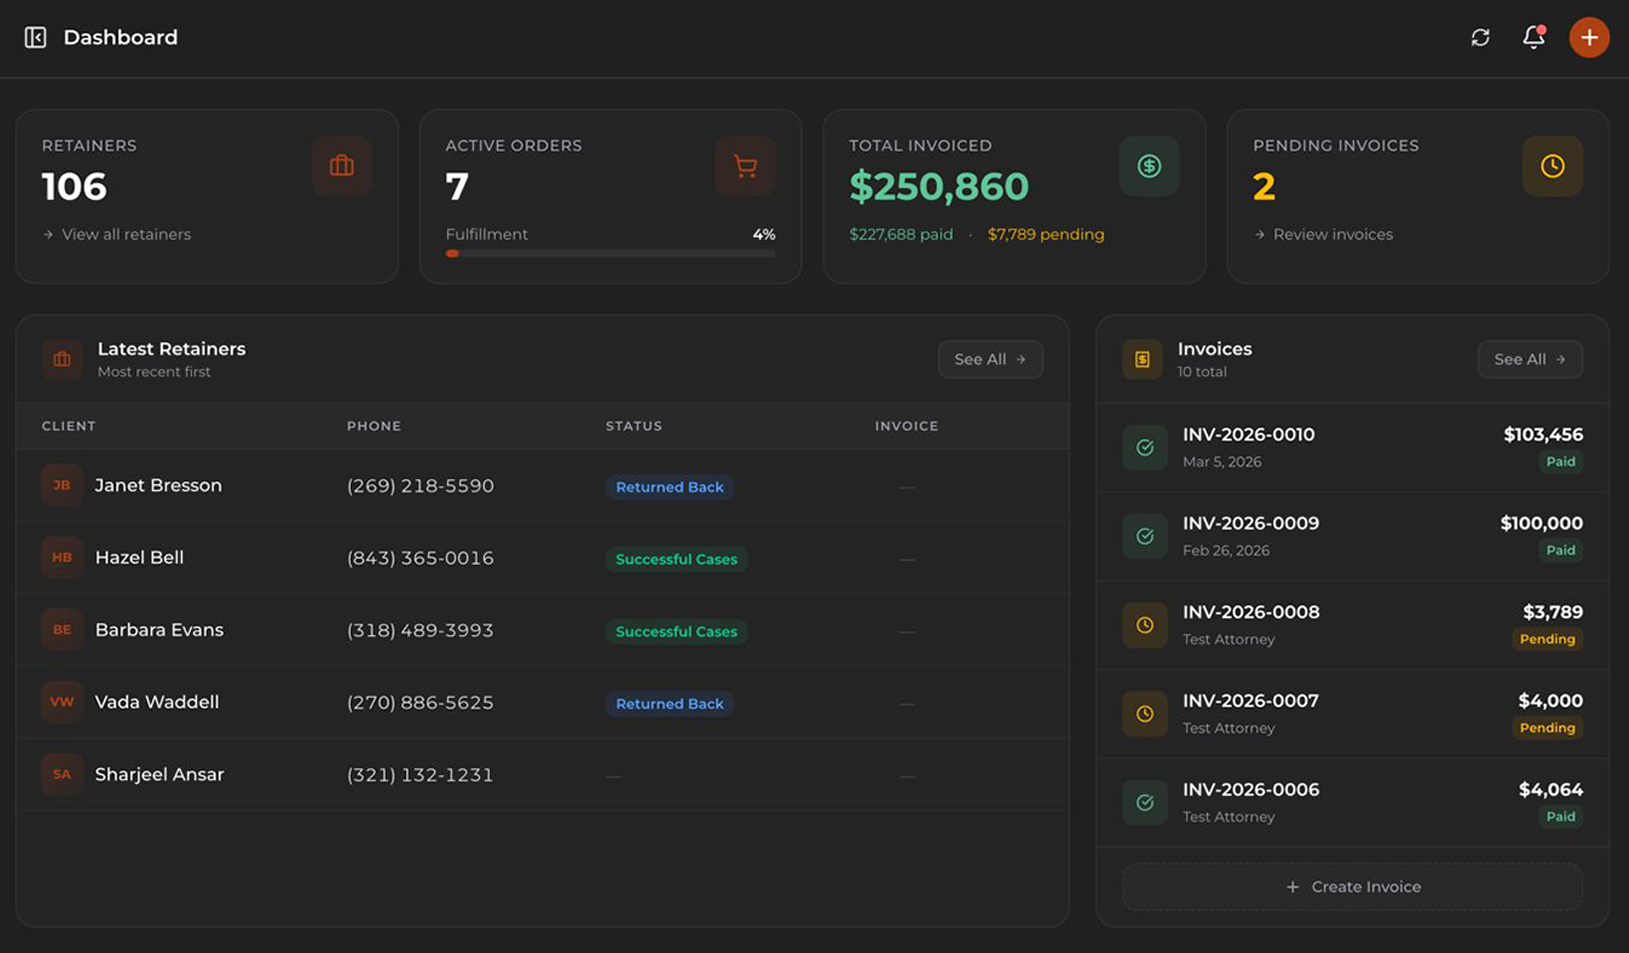
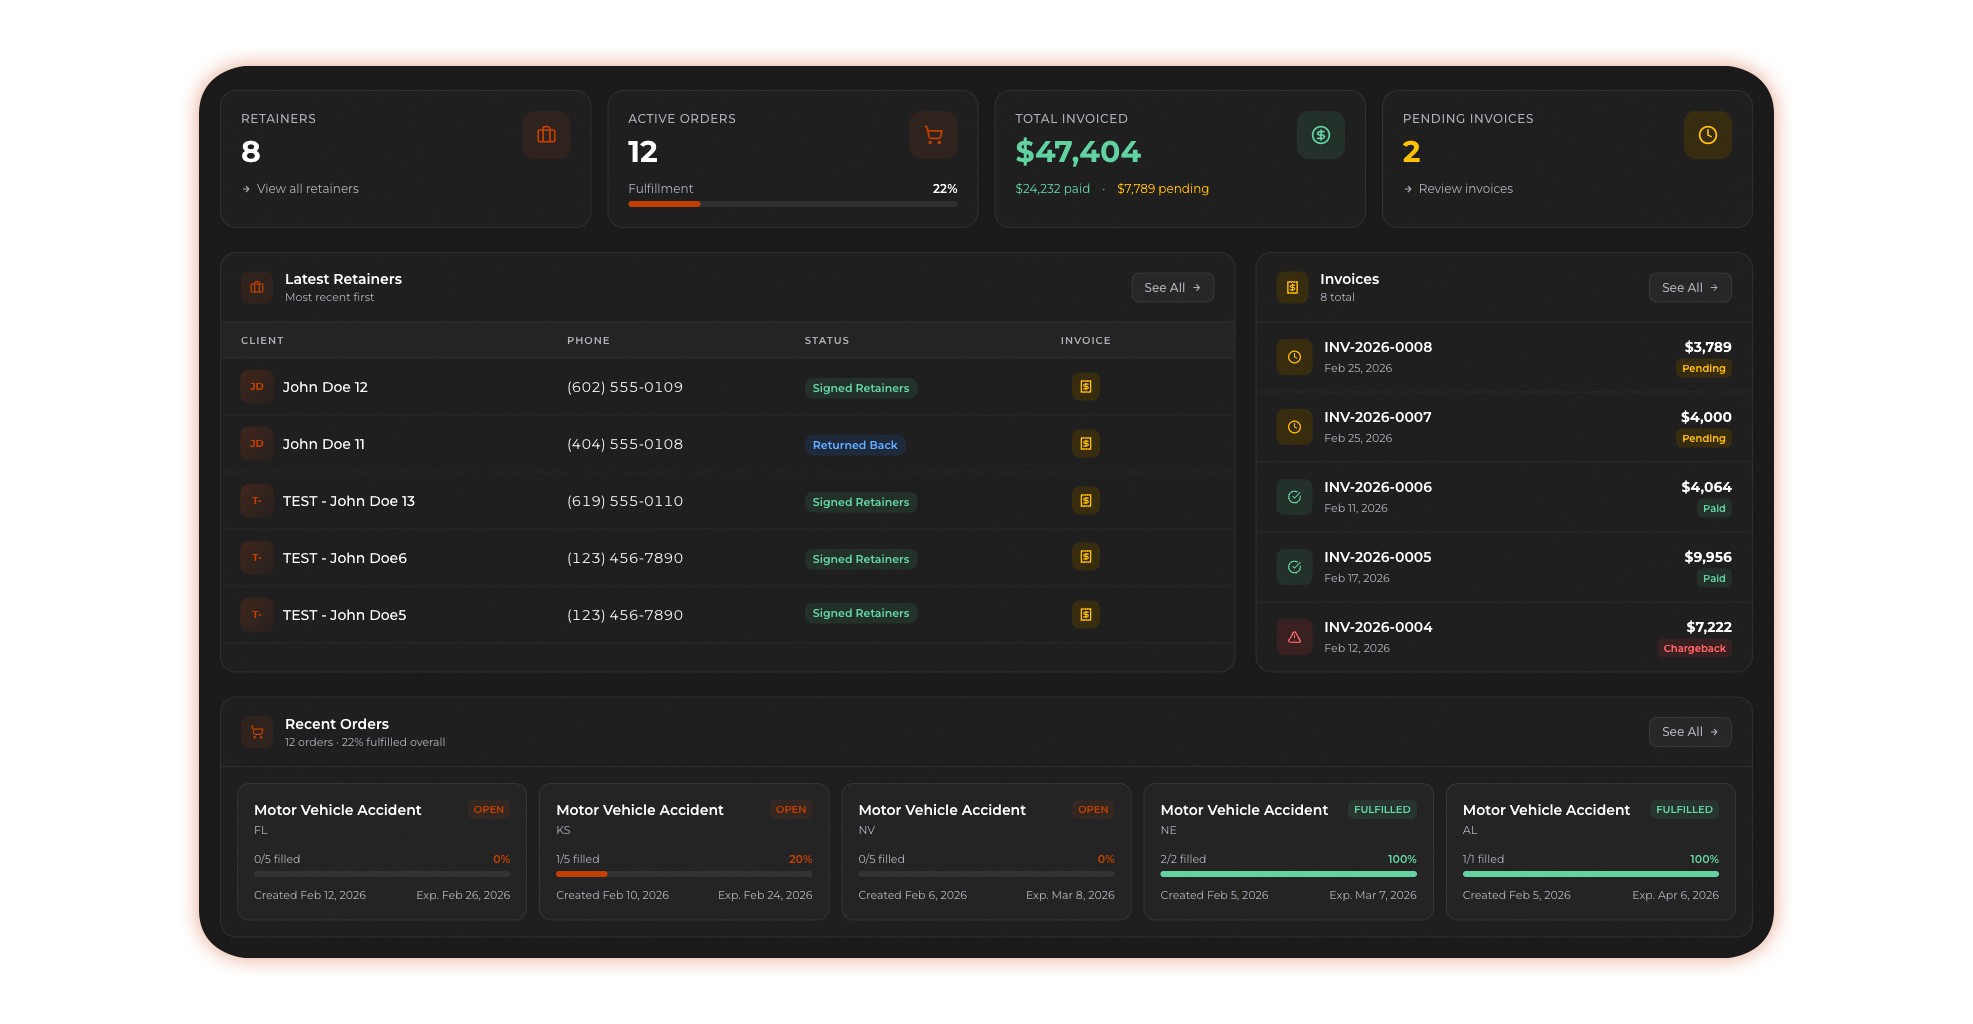
changes pushed related to the file

diff --git a/src/pages/thankyou.tsx b/src/pages/thankyou.tsx
@@ -1,6 +1,14 @@
 import Head from 'next/head';
 
 import Header from '../components/Header';
+import SectionArrow from '../components/sales/SectionArrow';
+
+const darkFrame: React.CSSProperties = {
+  '--sales-frame-surface': 'rgba(20,20,20,0.55)',
+  '--sales-frame-border': 'rgba(255,255,255,0.10)',
+  '--sales-frame-shadow': 'rgba(0,0,0,0.45)',
+  '--sales-frame-highlight': 'rgba(255,255,255,0.06)',
+} as React.CSSProperties;
 
 export default function ThankYou() {
   return (
@@ -30,11 +38,12 @@ export default function ThankYou() {
           position="fixed"
         />
 
-        <div className="h-screen overflow-y-auto snap-y snap-mandatory pt-14 sm:pt-16">
-          <section className="snap-start scroll-mt-14 sm:scroll-mt-16 min-h-[calc(100vh-56px)] flex items-center justify-center">
-            <div className="w-full">
-              <div className="w-full overflow-hidden bg-[#d9d9d9] shadow-[0_18px_50px_rgba(0,0,0,0.35)]">
-                <div className="flex h-[calc(100vh-56px-140px)] w-full items-center justify-center sm:h-[calc(100vh-64px-160px)]">
+        <div className="sales-scroll h-screen overflow-y-auto snap-y snap-mandatory scroll-smooth">
+          {/* Video slide */}
+          <section className="sales-slide snap-start flex items-center justify-center px-4 sm:px-6" style={darkFrame}>
+            <div className="w-full max-w-[1200px]">
+              <div className="w-full overflow-hidden rounded-xl bg-[#d9d9d9] shadow-[0_18px_50px_rgba(0,0,0,0.35)]">
+                <div className="aspect-video w-full">
                   <video
                     className="h-full w-full object-cover"
                     src="https://res.cloudinary.com/accidentpayments/video/upload/v1773066732/thankyou-video.mp4"
@@ -44,87 +53,57 @@ export default function ThankYou() {
                   />
                 </div>
               </div>
-              <div className="mt-4 flex justify-center">
-                <img
-                  src="/assets/Arrow.png"
-                  alt="Scroll down"
-                  className="h-24 w-auto sm:h-28"
-                />
-              </div>
             </div>
           </section>
 
-          <section className="snap-start scroll-mt-14 sm:scroll-mt-16 min-h-[calc(100vh-56px)] flex items-center justify-center px-4 py-10 sm:px-6">
-            <div className="w-full max-w-[980px]">
-              <div className="mx-auto w-full max-w-[1500px] px-6 py-12 text-center sm:px-14 sm:py-16">
-                <p className="text-xl font-extrabold uppercase tracking-[0.16em] text-brand sm:text-4xl">Step 1 : Confirm the logistics</p>
-                <p className="mt-6 text-base leading-relaxed text-[#c8c8c8] sm:text-2xl">
-                  Check your email for the Zoom link, accept the Google Calendar invite, and confirm your appointment via text message.
-                </p>
-              </div>
-              <div className="mt-10 flex justify-center">
-                <img
-                  src="/assets/Arrow.png"
-                  alt="Next step"
-                  className="h-28 w-auto sm:h-32"
-                />
-              </div>
+          {/* Step 1 */}
+          <section className="sales-slide snap-start flex items-center justify-center px-4 sm:px-6" style={darkFrame}>
+            <div className="w-full max-w-[980px] px-4 py-8 text-center sm:px-10 sm:py-10">
+              <p className="text-xl font-extrabold uppercase text-brand sm:text-4xl">Step 1 : Confirm the logistics</p>
+              <p className="mt-4 text-base leading-relaxed text-[#c8c8c8] sm:text-2xl">
+                Check your email for the Zoom link, accept the Google Calendar invite, and confirm your appointment via text message.
+              </p>
             </div>
           </section>
 
-          <section className="snap-start scroll-mt-14 sm:scroll-mt-16 min-h-[calc(100vh-56px)] flex items-center justify-center px-4 py-10 sm:px-6">
-            <div className="w-full max-w-[980px]">
-              <div className="mx-auto w-full max-w-[1500px] px-6 py-12 text-center sm:px-14 sm:py-16">
-                <p className="text-xl font-extrabold uppercase tracking-[0.16em] text-brand sm:text-4xl">Step 2 : Optimize your environment</p>
-                <p className="mt-6 text-base leading-relaxed text-[#c8c8c8] sm:text-2xl">
-                  Plan to be in a quiet, distraction-free space with your camera turned ON for the duration of the call.
-                </p>
-              </div>
-              <div className="mt-10 flex justify-center">
-                <img
-                  src="/assets/Arrow.png"
-                  alt="Next step"
-                  className="h-28 w-auto sm:h-32"
-                />
-              </div>
+          {/* Step 2 */}
+          <section className="sales-slide snap-start flex items-center justify-center px-4 sm:px-6" style={darkFrame}>
+            <div className="w-full max-w-[980px] px-4 py-8 text-center sm:px-10 sm:py-10">
+              <p className="text-xl font-extrabold uppercase text-brand sm:text-4xl">Step 2 : Optimize your environment</p>
+              <p className="mt-4 text-base leading-relaxed text-[#c8c8c8] sm:text-2xl">
+                Plan to be in a quiet, distraction-free space with your camera turned ON for the duration of the call.
+              </p>
             </div>
           </section>
 
-          <section className="snap-start scroll-mt-14 sm:scroll-mt-16 min-h-[calc(100vh-56px)] flex items-center justify-center px-4 py-10 sm:px-6">
-            <div className="w-full max-w-[980px]">
-              <div className="mx-auto w-full max-w-[1500px] px-6 py-12 text-center sm:px-14 sm:py-16">
-                <p className="text-xl font-extrabold uppercase tracking-[0.16em] text-brand sm:text-4xl">Step 3 : Prepare for value</p>
-                <p className="mt-6 text-base leading-relaxed text-[#c8c8c8] sm:text-2xl">
-                  Come ready to focus and have a notepad or app open to take notes during our strategy session.
-                </p>
-              </div>
-              <div className="mt-10 flex justify-center">
-                <img
-                  src="/assets/Arrow.png"
-                  alt="Next step"
-                  className="h-28 w-auto sm:h-32"
-                />
-              </div>
+          {/* Step 3 */}
+          <section className="sales-slide snap-start flex items-center justify-center px-4 sm:px-6" style={darkFrame}>
+            <div className="w-full max-w-[980px] px-4 py-8 text-center sm:px-10 sm:py-10">
+              <p className="text-xl font-extrabold uppercase text-brand sm:text-4xl">Step 3 : Prepare for value</p>
+              <p className="mt-4 text-base leading-relaxed text-[#c8c8c8] sm:text-2xl">
+                Come ready to focus and have a notepad or app open to take notes during our strategy session.
+              </p>
             </div>
           </section>
 
-          <section className="snap-start scroll-mt-14 sm:scroll-mt-16 min-h-[calc(100vh-56px)] flex items-center justify-center px-4 py-12 sm:px-6">
+          {/* Final / thank you */}
+          <section className="sales-slide snap-start flex items-center justify-center px-4 py-8 sm:px-6" style={darkFrame}>
             <div className="w-full max-w-[980px] text-center">
               <div className="w-full rounded-smooth border border-white/10 bg-[#202020] p-6 shadow-[0_18px_50px_rgba(0,0,0,0.35)] backdrop-blur sm:p-10">
                 <p className="text-sm leading-relaxed text-[#d4d4d4] sm:text-lg">
                   Please be prepared with any relevant information or questions so we can make the most of our time together.
                 </p>
-                <p className="mt-4 text-sm font-semibold text-brand sm:mt-5 sm:text-lg">
+                <p className="mt-3 text-sm font-semibold text-brand sm:mt-4 sm:text-lg">
                   We look forward to speaking with you and welcoming you onboard.
                 </p>
               </div>
 
-              <div className="mt-10">
+              <div className="mt-8">
                 <p className="text-2xl font-extrabold uppercase text-brand sm:text-3xl">Thank you for scheduling a meeting with us!</p>
                 <p className="mt-2 text-sm text-[#c8c8c8]">Your meeting has been successfully scheduled.</p>
               </div>
 
-              <div className="mt-12 w-full text-center">
+              <div className="mt-8 w-full text-center">
                 <p className="text-xs font-semibold text-[#c8c8c8] sm:text-sm">Follow Us On Our Socials</p>
                 <div className="mt-3 flex items-center justify-center gap-6">
                   <a href="#" className="text-brand transition-all hover:scale-110 hover:text-[#CC3F08]" aria-label="Instagram">
@@ -148,6 +127,7 @@ export default function ThankYou() {
             </div>
           </section>
         </div>
+        <SectionArrow />
       </main>
     </>
   );

diff --git a/src/components/VideoCarouselSection.tsx b/src/components/VideoCarouselSection.tsx
@@ -191,31 +191,35 @@ export default function VideoCarouselSection() {
     });
   }, []);
 
-  // Start when section comes into view AND first URL is ready
+  // Start marquee when section comes into view.
+  // Do not block on URLs: the strip should feel "alive" immediately, and
+  // videos will begin playing as soon as their URLs load.
   useEffect(() => {
     const section = sectionRef.current;
-    if (!section || hasStartedRef.current || !videoUrls[0]) return;
+    if (!section || hasStartedRef.current) return;
 
-    const tryStart = () => {
+    let observer: IntersectionObserver | null = null;
+
+    const start = () => {
       if (hasStartedRef.current) return;
-      const rect = section.getBoundingClientRect();
-      if (rect.top < window.innerHeight * 0.8 && rect.bottom > 0) {
-        hasStartedRef.current = true;
-        playAllMuted();
-        loadRemainingVideos();
-        observer.disconnect();
-      }
+      hasStartedRef.current = true;
+      playAllMuted();
+      observer?.disconnect();
+      observer = null;
     };
 
-    const observer = new IntersectionObserver(
-      ([entry]) => { if (entry.isIntersecting) tryStart(); },
-      { threshold: 0.2 }
-    );
-    observer.observe(section);
-    tryStart(); // also check immediately if already visible
+    observer = new IntersectionObserver(([entry]) => {
+      if (entry.isIntersecting) start();
+    }, { threshold: 0.15 });
 
-    return () => observer.disconnect();
-  }, [playAllMuted, loadRemainingVideos, videoUrls]);
+    observer.observe(section);
+
+    // Immediate visibility check for the common "already in view on load" case.
+    const rect = section.getBoundingClientRect();
+    if (rect.top < window.innerHeight && rect.bottom > 0) start();
+
+    return () => observer?.disconnect();
+  }, [playAllMuted]);
 
   // Auto-start newly loaded videos while marquee is running
   useEffect(() => {

diff --git a/src/components/sales/ImageSection19.tsx b/src/components/sales/ImageSection19.tsx
@@ -1,12 +1,34 @@
 export default function ImageSection19() {
   return (
-    <section className="relative snap-start sales-slide w-full overflow-hidden">
-      <img
-        src="/assets/19.png"
-        alt="Accident Payments"
-        className="absolute inset-0 h-full w-full object-cover"
-        loading="lazy"
-      />
+    <section
+      className="relative snap-start sales-slide sales-slide-no-surface flex w-full items-center justify-center px-4 py-6 sm:px-10 sm:py-10"
+      style={{ height: 'calc(100dvh - var(--sales-header))' }}
+    >
+      <div className="flex w-full max-w-[1400px] flex-col items-center text-center text-[#111]">
+        <p className="mx-auto max-w-[980px] text-[clamp(22px,5.2vw,44px)] font-extrabold uppercase leading-none tracking-[0.04em] text-brand">
+          Real-Time Revenue<br />Zero Effort
+        </p>
+        <p className="mx-auto mt-1 max-w-[980px] text-[clamp(14px,3.2vw,20px)] font-semibold leading-snug text-[#111]/80 sm:mt-2">
+          Track every signed case and firm growth in your private portal.
+        </p>
+
+        <div className="mt-3 w-full sm:mt-6">
+          {/* Desktop/tablet */}
+          <img
+            src="/assets/19.png"
+            alt="Lawyer portal preview"
+            className="hidden w-full max-w-[1320px] object-contain sm:block"
+            loading="lazy"
+          />
+          {/* Mobile */}
+          <img
+            src="/assets/dashboard-(mobile).png"
+            alt="Lawyer portal preview (mobile)"
+            className="mx-auto block h-[68vh] w-auto max-w-[92%] object-contain sm:hidden"
+            loading="lazy"
+          />
+        </div>
+      </div>
     </section>
   );
 }

diff --git a/src/components/sales/ImageSection20.tsx b/src/components/sales/ImageSection20.tsx
@@ -1,12 +1,34 @@
 export default function ImageSection20() {
   return (
-    <section className="relative snap-start sales-slide w-full overflow-hidden">
-      <img
-        src="/assets/20.png"
-        alt="Accident Payments"
-        className="absolute inset-0 h-full w-full object-cover"
-        loading="lazy"
-      />
+    <section
+      className="relative snap-start sales-slide sales-slide-no-surface flex w-full items-center justify-center px-4 py-6 sm:px-10 sm:py-10"
+      style={{ height: 'calc(100dvh - var(--sales-header))' }}
+    >
+      <div className="flex w-full max-w-[1400px] flex-col items-center text-center text-[#111]">
+        <p className="mx-auto max-w-[980px] text-[clamp(22px,5.2vw,44px)] font-extrabold uppercase leading-none tracking-[0.04em] text-brand">
+          Targeted Intake<br />100% Exclusive
+        </p>
+        <p className="mx-auto mt-1 max-w-[980px] text-[clamp(14px,3.2vw,20px)] font-semibold leading-snug text-[#111]/80 sm:mt-2">
+          Pick your states and monitor firm growth in real-time.
+        </p>
+
+        <div className="mt-3 w-full sm:mt-6">
+          {/* Desktop/tablet */}
+          <img
+            src="/assets/20.png"
+            alt="Intake map preview"
+            className="hidden w-full max-w-[1320px] object-contain sm:block"
+            loading="lazy"
+          />
+          {/* Mobile */}
+          <img
+            src="/assets/intake-(mobile).png"
+            alt="Intake map preview (mobile)"
+            className="mx-auto block h-[68vh] w-auto max-w-[92%] object-contain sm:hidden"
+            loading="lazy"
+          />
+        </div>
+      </div>
     </section>
   );
 }

diff --git a/src/styles/globals.css b/src/styles/globals.css
@@ -48,9 +48,41 @@
 
   /* Slides should be sized to the visible viewport area below the fixed header. */
   .sales-slide {
+    position: relative;
+    isolation: isolate;
     min-height: calc(100vh - var(--sales-header));
     min-height: calc(100dvh - var(--sales-header));
     scroll-margin-top: var(--sales-header);
+  }
+
+  /* Rounded-rectangle "frame" applied to every sales slide. */
+  .sales-slide::before,
+  .sales-slide::after {
+    content: '';
+    position: absolute;
+    pointer-events: none;
+    inset: clamp(10px, 2.2vw, 18px);
+    border-radius: 22px;
+  }
+
+  /* Subtle card surface behind content (so the frame reads even over images). */
+  .sales-slide::before {
+    z-index: -1;
+    background: var(--sales-frame-surface, rgba(255, 255, 255, 0.28));
+  }
+
+  /* Border + shadow on top of the slide content. */
+  .sales-slide::after {
+    z-index: 10;
+    border: 1px solid var(--sales-frame-border, rgba(17, 17, 17, 0.16));
+    box-shadow:
+      0 18px 55px var(--sales-frame-shadow, rgba(0, 0, 0, 0.18)),
+      inset 0 0 0 1px var(--sales-frame-highlight, rgba(255, 255, 255, 0.36));
+  }
+
+  /* Opt-out helpers for slides that should not have a filled surface behind content. */
+  .sales-slide-no-surface {
+    --sales-frame-surface: transparent;
   }
 }
 

diff --git a/src/components/sales/FirstAccessSection.tsx b/src/components/sales/FirstAccessSection.tsx
@@ -3,6 +3,9 @@ export default function FirstAccessSection() {
     <section className="relative snap-start sales-slide flex w-full items-center justify-center px-4 py-6 sm:px-10 sm:py-10">
       <div className="w-full max-w-[1200px] text-center">
         <div className="mx-auto flex w-full max-w-[980px] flex-col items-center">
+          <p className="mb-4 text-[20px] font-extrabold uppercase leading-[1.15] text-brand sm:mb-6 sm:text-[34px]">
+            Quit Buying Leads<br />Start Receiving Signed Cases
+          </p>
           <img
             src="/assets/computer.png"
             alt="Accident Payments preview"

diff --git a/src/components/sales/GrowBusinessSection.tsx b/src/components/sales/GrowBusinessSection.tsx
@@ -20,7 +20,7 @@ export default function GrowBusinessSection() {
         </p>
 
         <div className="mt-7 flex justify-center sm:mt-10">
-          <div className="max-w-[980px] bg-brand px-2 py-2 text-center text-[clamp(22px,6vw,30px)] font-extrabold uppercase leading-none tracking-[0.04em] text-[#d9d9d9] sm:text-7xl">
+          <div className="max-w-[1000px] bg-brand px-2 py-2 text-center text-[clamp(22px,6vw,30px)] font-extrabold uppercase leading-none tracking-[0.04em] text-[#d9d9d9] sm:text-7xl">
             SO HOW DOES IT WORK
           </div>
         </div>

diff --git a/src/pages/sales.tsx b/src/pages/sales.tsx
@@ -1,5 +1,4 @@
 import Head from 'next/head';
-
 import Header from '../components/Header';
 import SectionArrow from '../components/sales/SectionArrow';
 // import LoomVideoSection from '../components/sales/LoomVideoSection';
